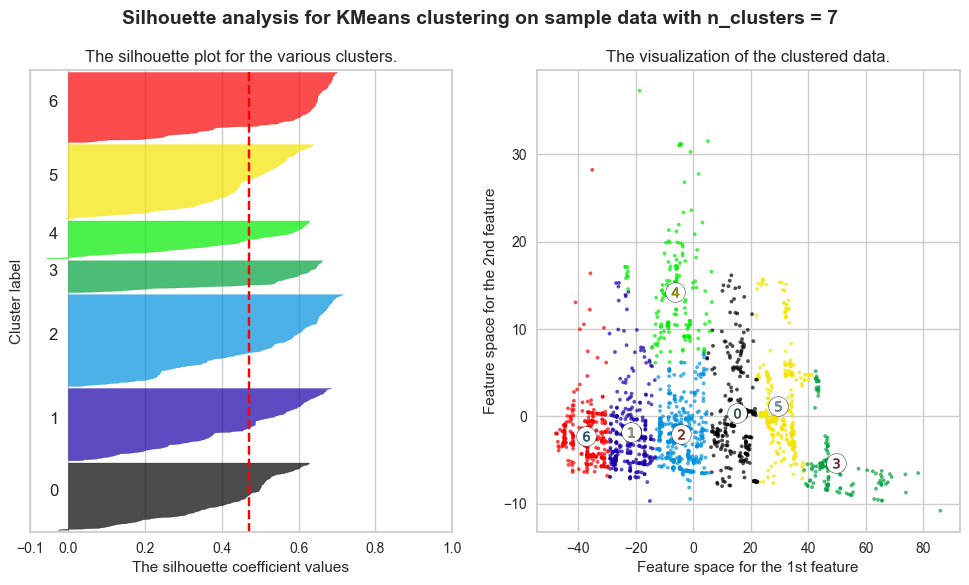
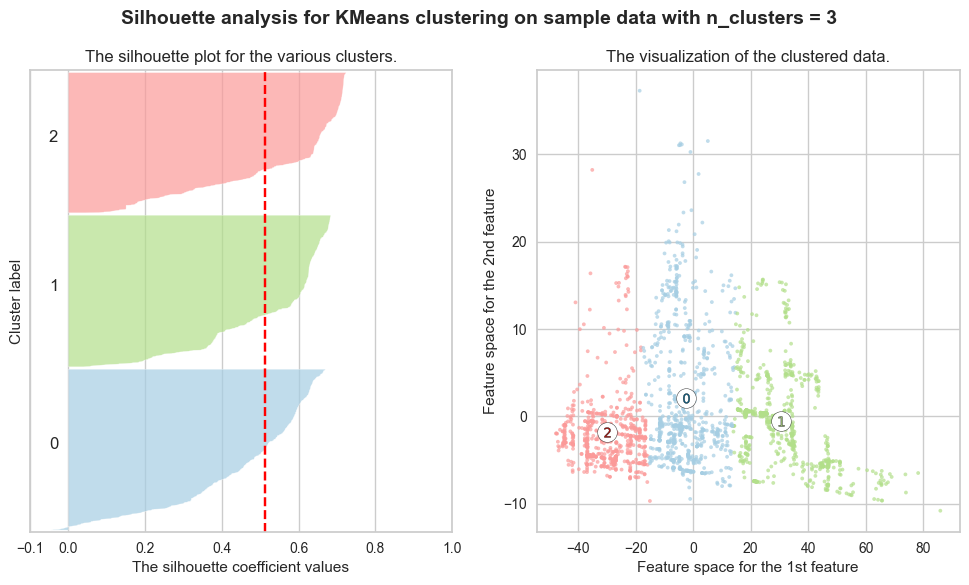
kmeans color silhouette

diff --git a/clustering/kmeans.py b/clustering/kmeans.py
@@ -1,6 +1,7 @@
 import numpy as np
 import pandas as pd
 import matplotlib.pyplot as plt
+import matplotlib as mpl
 
 from yellowbrick.cluster import KElbowVisualizer
 from matplotlib import cm
@@ -11,6 +12,7 @@ from sklearn.metrics import silhouette_score, silhouette_samples
 from sklearn.pipeline import make_pipeline
 from sklearn.decomposition import PCA
 from sklearn.preprocessing import LabelEncoder
+
 
 def silhouette_analysis(range_n_clusters, X):
     for n_clusters in range_n_clusters:
@@ -46,6 +48,8 @@ def silhouette_analysis(range_n_clusters, X):
         sample_silhouette_values = silhouette_samples(X, cluster_labels)
 
         y_lower = 10
+        colors = iter([plt.cm.Paired(i) for i in range(0,20)])
+        list = []
         for i in range(n_clusters):
             # Aggregate the silhouette scores for samples belonging to
             # cluster i, and sort them
@@ -56,21 +60,22 @@ def silhouette_analysis(range_n_clusters, X):
             size_cluster_i = ith_cluster_silhouette_values.shape[0]
             y_upper = y_lower + size_cluster_i
 
-            color = cm.nipy_spectral(float(i) / n_clusters)
+            list.append(next(colors))
             ax1.fill_betweenx(
                 np.arange(y_lower, y_upper),
                 0,
                 ith_cluster_silhouette_values,
-                facecolor=color,
-                edgecolor=color,
+                color=list[-1],
+                edgecolor='w',
                 alpha=0.7,
             )
-
+            next(colors)
             # Label the silhouette plots with their cluster numbers at the middle
             ax1.text(-0.05, y_lower + 0.5 * size_cluster_i, str(i))
 
             # Compute the new y_lower for next plot
             y_lower = y_upper + 10  # 10 for the 0 samples
+
 
         ax1.set_title("The silhouette plot for the various clusters.")
         ax1.set_xlabel("The silhouette coefficient values")
@@ -83,9 +88,17 @@ def silhouette_analysis(range_n_clusters, X):
         ax1.set_xticks([-0.1, 0, 0.2, 0.4, 0.6, 0.8, 1])
 
         # 2nd Plot showing the actual clusters formed
-        colors = cm.nipy_spectral(cluster_labels.astype(float) / n_clusters)
+        colors = []
+        for c in range(0, len(X)):
+            if cluster_labels[c] == 0:
+                colors.append(list[0])
+            elif cluster_labels[c] == 1:
+                colors.append(list[1])
+            elif cluster_labels[c] == 2:
+                colors.append(list[2])
+
         ax2.scatter(
-            X[:, 0], X[:, 1], marker=".", s=30, lw=0, alpha=0.7, c=colors, edgecolor="k"
+            X[:, 0], X[:, 1], marker=".", s=30, lw=0, alpha=0.7, c=np.array(colors), edgecolor="k"
         )
 
         # Labeling the clusters
@@ -119,6 +132,7 @@ def silhouette_analysis(range_n_clusters, X):
     plt.show()
 
 
+
 def elbow_method(X):
     # Instantiate the clustering model and visualizer
     model = KMeans()
@@ -133,6 +147,7 @@ def elbow_method(X):
     visualizer = KElbowVisualizer(model, k=(2, 10), metric='silhouette')
     visualizer.fit(X)
     visualizer.show()
+
 
 def bench_k_means(kmeans, name, data, labels):
     """Benchmark to evaluate the KMeans initialization methods.
@@ -198,7 +213,7 @@ number = LabelEncoder()
 data['Gender'] = number.fit_transform(data['Gender'])
 data['Transportation Used'] = number.fit_transform(data['Transportation Used'])
 
-elbow_method(data.values)
+#elbow_method(data.values)
 
 print(80 * "_")
 print("init\t\ttime\tinertia\thomo\tcompl\tv-meas\tARI   \tAMI   \tsilhouette")
@@ -213,9 +228,8 @@ d_pca1 = data.copy()
 d_pca2 = data.copy()
 d_pca3 = data.copy()
 d_pca4 = data.copy()
-pc = 2
 
-pca = PCA(n_components=pc).fit_transform(d_pca1)
+pca = PCA(n_components=2).fit_transform(d_pca1)
 kmeans = KMeans(init='k-means++', n_clusters=n_digits, n_init=1, random_state=0)
 bench_k_means(kmeans=kmeans, name="PCA2-based", data=pca, labels=labels)
 
@@ -232,7 +246,7 @@ kmeans.fit(data_reduced)
 
 print(80 * "_")
 
-pca = PCA(n_components=pc)
+pca = PCA(n_components=2)
 pca_x = pca.fit_transform(d_pca4)
 data_reduced = pd.DataFrame(pca_x).values
 
@@ -280,8 +294,8 @@ plt.xlim(x_min, x_max)
 plt.ylim(y_min, y_max)
 plt.xticks(())
 plt.yticks(())
-plt.show()
 plt.savefig('grafici/kmean', bbox_inches='tight')
+plt.show()
+
 
 silhouette_analysis([3], data_reduced)
-
